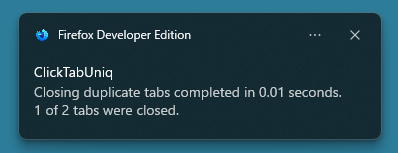
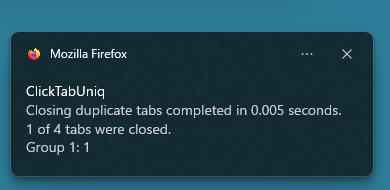
Merge pull request #47 from PKxk8J/fix-notification-format
バージョン 4.1.0

Pull request: バージョン 4.1.0

Changed region(s): [[0.0, 0.0784, 0.9846, 0.9673], [0.7692, 0.2614, 0.8, 0.2876], [0.7692, 0.2092, 0.8, 0.2353]]

diff --git a/test/uniq.test.js b/test/uniq.test.js
@@ -225,8 +225,11 @@ test('update API がなくても重複タブを閉じて通知を送る', async 
   assert.equal(state.notifications[0].options.title, 'ClickTabUniq')
   assert.equal(state.notifications[0].options.message.includes('successMessage'), true)
   assert.equal(state.notifications[0].options.message.includes(
-    'hierarchyResultHeader hierarchyResultLine:topLevelScope,1',
+    '\nhierarchyResultLine:topLevelScope,1',
   ), true)
+  assert.equal(state.notifications[0].options.message.includes(
+    'hierarchyResultHeader',
+  ), false)
 })
 
 test('完了通知に階層ごとの結果を1行で載せる', async () => {
@@ -245,9 +248,9 @@ test('完了通知に階層ごとの結果を1行で載せる', async () => {
   await run(1, 'url', true)
 
   const { message } = state.notifications[0].options
-  assert.equal(message.includes('\n\nhierarchyResultHeader'), false)
+  assert.equal(message.includes('hierarchyResultHeader'), false)
   assert.equal(message.includes(
-    'hierarchyResultHeader hierarchyResultLine:topLevelScope,1 / ' +
+    '\nhierarchyResultLine:topLevelScope,1 / ' +
       'hierarchyResultLine:groupHierarchyLabel:仕事,1 / ' +
       'hierarchyResultLine:groupNumberedHierarchyLabel:2,1',
   ), true)

diff --git a/extension/uniq.js b/extension/uniq.js
@@ -9,7 +9,6 @@ import {
   KEY_FAILURE_MESSAGE,
   KEY_GROUP_HIERARCHY_LABEL,
   KEY_GROUP_NUMBERED_HIERARCHY_LABEL,
-  KEY_HIERARCHY_RESULT_HEADER,
   KEY_HIERARCHY_RESULT_LINE,
   KEY_PROGRESS,
   KEY_RESPECT_BOUNDARIES,
@@ -382,8 +381,7 @@ function getHierarchyResultMessage (hierarchyResults) {
     return ''
   }
 
-  return i18n.getMessage(KEY_HIERARCHY_RESULT_HEADER) + ' ' +
-    lines.join(' / ')
+  return lines.join(' / ')
 }
 
 function getNotificationOptions (progress) {

diff --git a/extension/common.js b/extension/common.js
@@ -39,7 +39,6 @@ export const KEY_CLOSING = 'closing'
 export const KEY_PROGRESS = 'progress'
 export const KEY_SUCCESS_MESSAGE = 'successMessage'
 export const KEY_FAILURE_MESSAGE = 'failureMessage'
-export const KEY_HIERARCHY_RESULT_HEADER = 'hierarchyResultHeader'
 export const KEY_HIERARCHY_RESULT_LINE = 'hierarchyResultLine'
 export const KEY_GROUP_HIERARCHY_LABEL = 'groupHierarchyLabel'
 export const KEY_GROUP_NUMBERED_HIERARCHY_LABEL = 'groupNumberedHierarchyLabel'

diff --git a/amo/detail.md b/amo/detail.md
@@ -18,11 +18,17 @@ For each duplicate detection method, choose the cleanup scope:
 - Each hierarchy
 - All tabs
 
+Menu items show how many duplicate tabs will be closed before you choose an
+action.
+
 Hierarchies are top-level tabs and each tab group.
 Pinned tabs are treated as top-level tabs and are preferred over regular tabs
 when choosing which duplicate survives.
 When you right-click a tab in a group, the menu can also offer the top-level
-cleanup scope for that tab's top-level position.
+cleanup scope. Choosing that top-level scope only checks top-level tabs, so
+duplicates inside the clicked group stay untouched unless you choose the group
+scope.
 Split view tabs are included in duplicate detection and cleanup.
 
-Optional notifications can show progress and the final result.
+Optional notifications can show progress, the final result, and how many tabs
+were closed in each hierarchy.

diff --git a/README.md b/README.md
@@ -8,13 +8,16 @@ https://addons.mozilla.org/addon/clicktabuniq/
 
 - URL、ハッシュを除く URL、タイトルで重複タブを削除
 - クリックした階層内、全ての階層ごと、全てのタブから削除範囲を選択
+- メニューに削除予定の重複タブ数を表示
 - 階層はトップレベル、タブグループごとで判定
 - ピン留めされたタブはトップレベルとして扱い、重複時は通常タブより優先して残す
 - 分割ビュー内のタブも重複判定・削除の対象
+- 通知を有効にすると、完了結果と階層別の削除内訳を表示
 
 「クリックした階層内」では、右クリックしたタブと同じ階層だけを対象にします。
 グループ内のタブを右クリックした場合は、その階層内に加えてトップレベルとしての
-判定も選択できます。
+判定も選択できます。トップレベルを選択した場合はトップレベルのタブだけを対象とし、
+右クリック元グループ内の重複は削除しません。
 「全ての階層ごと」では、トップレベルと各タブグループを別々に重複判定します。
 「全てのタブ」では階層をまたいで重複判定します。
 